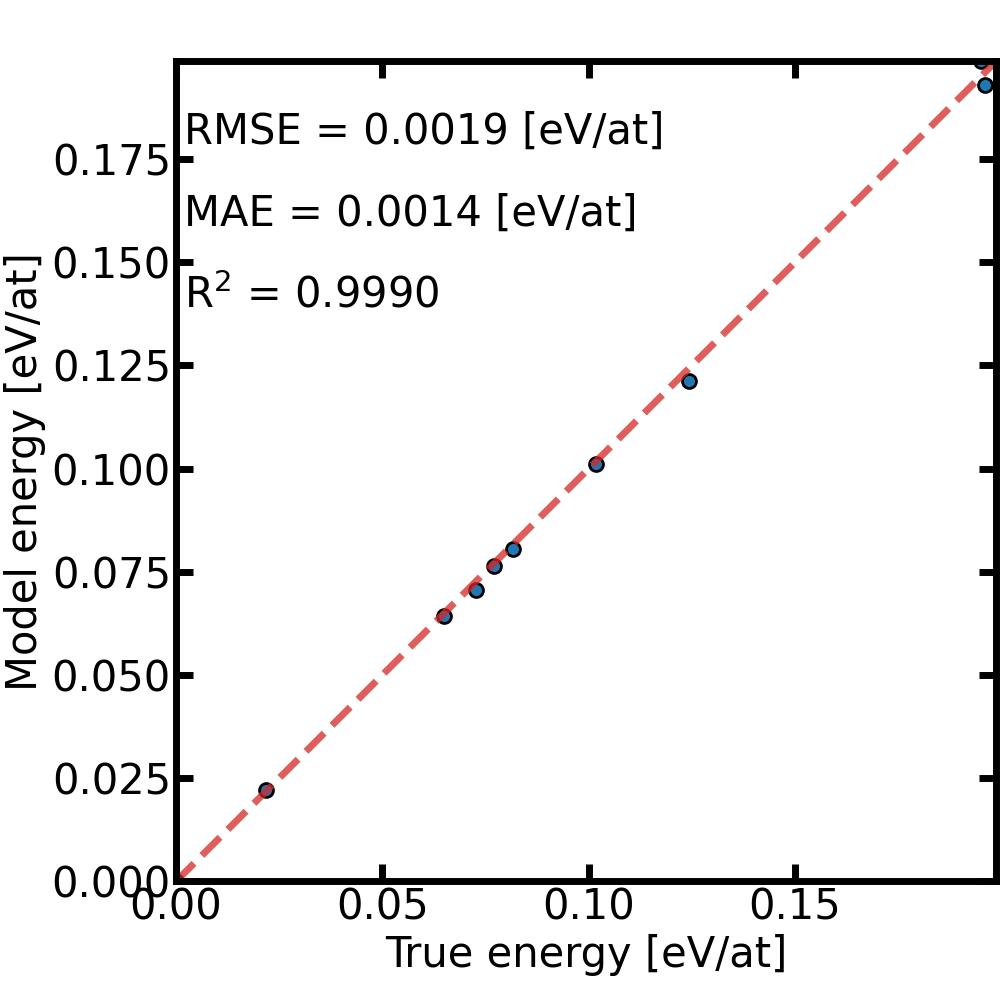
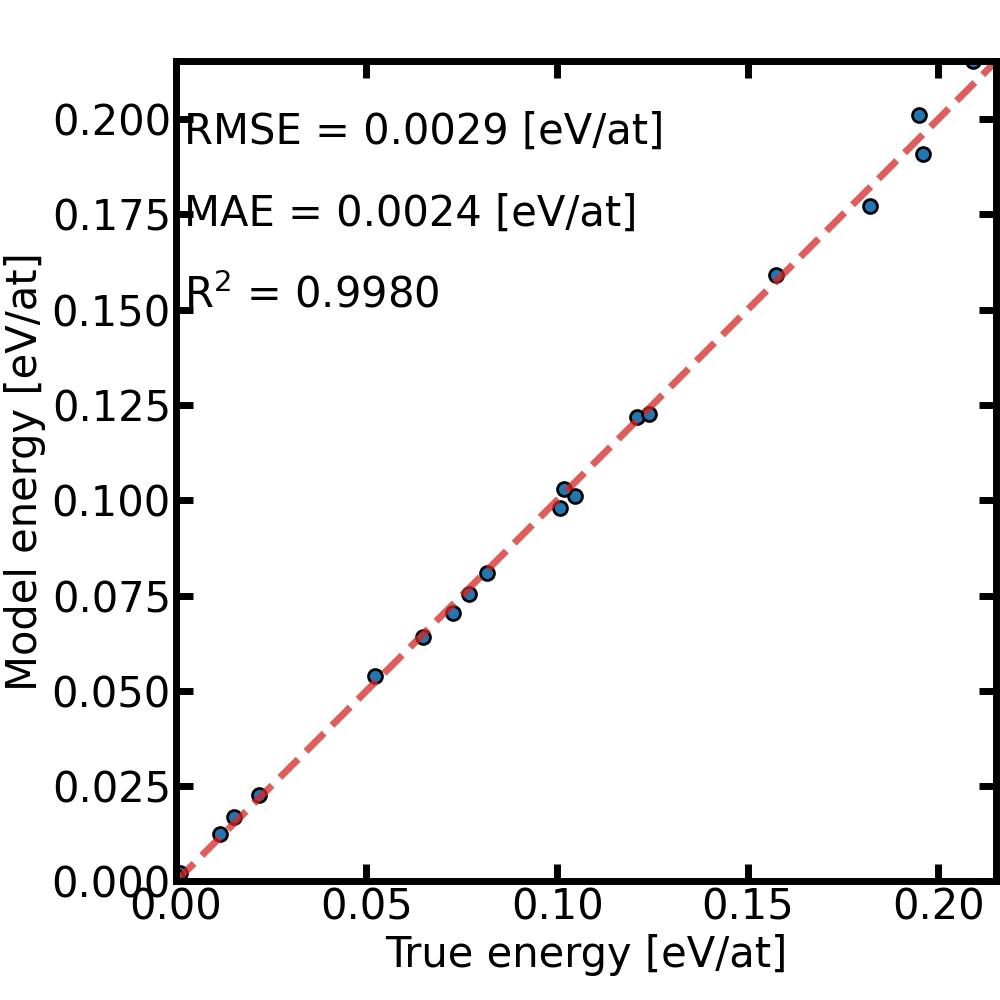
Adding tutorials and small update of the MTP tutorial (not working before because of weights).

diff --git a/docs/source/tutorials/index.rst b/docs/source/tutorials/index.rst
@@ -31,6 +31,7 @@ Machine-Learning Assisted Samping
     :maxdepth: 2
 
     mlacs_tuto1
+    mlacs_tuto2
 
 
 Thermodynamic integration
